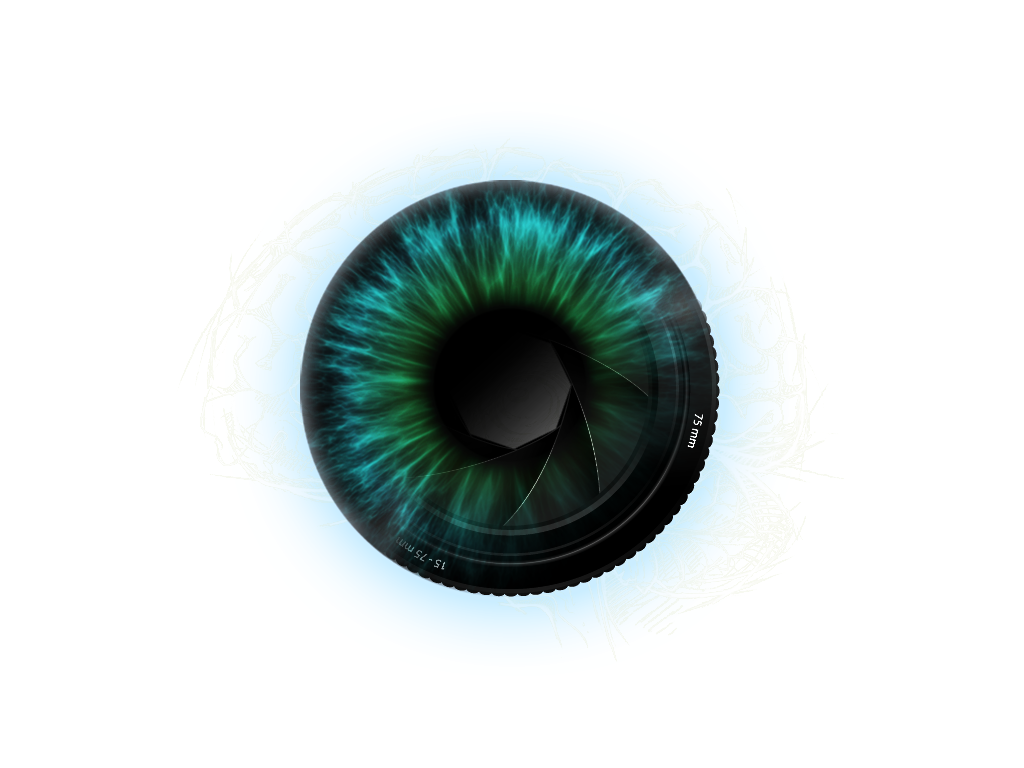
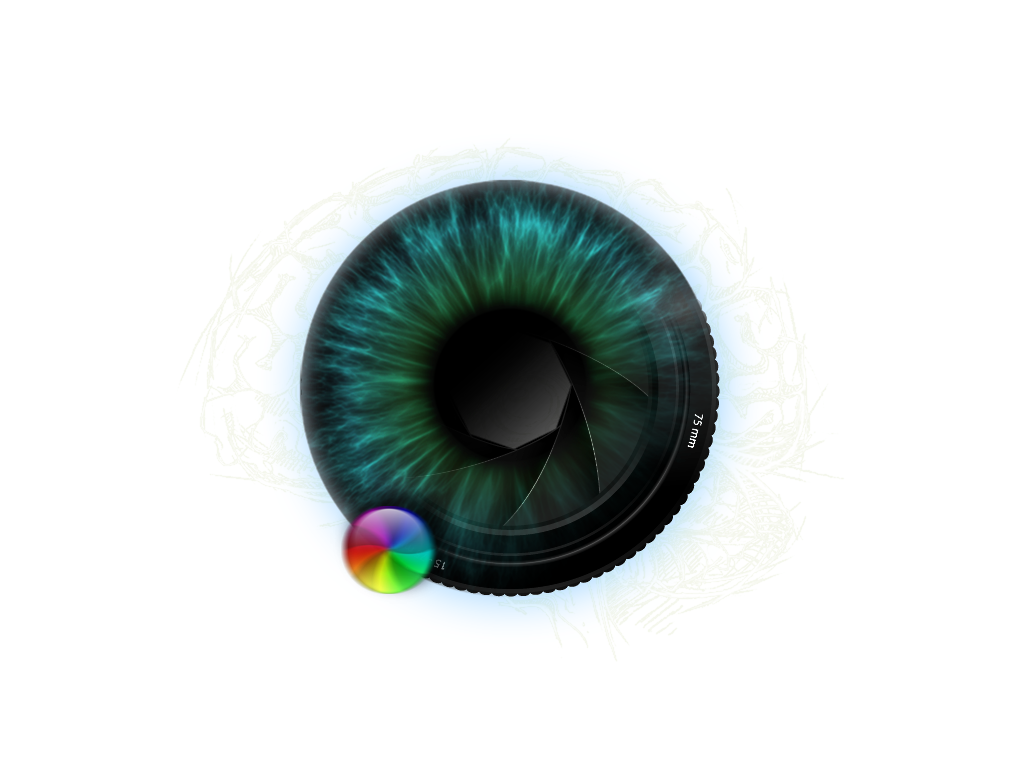
novo olho da home + alteração no movimento

Changed region(s): [[0.3125, 0.625, 0.4375, 0.7812]]

diff --git a/js/main.js b/js/main.js
@@ -6,6 +6,8 @@ var isMoving = false ;
 var usingKey = false ;
 var posAtual = 0 ;
 var currentSeta = null ;
+var tagsLeft = 0 ;
+var ease = 'easeInOutExpo' ;
 
 var Site = {
     Init: function() {
@@ -26,7 +28,7 @@ var Site = {
 		$('.menu_container').onePageNav({
 			changeHash: true,
 			currentClass: 'current_nav',
-			easing: 'easeInOutExpo',
+			easing: ease,
 			begin: function(){
 				$('.imagem_container').animate({left:0}, 500, 'swing');
 			},
@@ -146,6 +148,7 @@ var Site = {
 		function DoResize(e){
 			vw = $(window).width();
 			vh = $(window).height();
+			tagsLeft = ( vw / 2 + 100 ) ;
 			
 			$('.primeira div').css({
 				left:( (vw / 2) - (534 / 2) ) + 'px',
@@ -160,7 +163,7 @@ var Site = {
 			});
 			
 			$('.tags').css({
-				left: ( vw / 2 + 100 ) + 'px',
+				left: tagsLeft + 'px',
 				top:  ( vh / 2 - 25 ) + 'px'
 			});
 			
@@ -215,12 +218,12 @@ var Nav = {
 			var corPelaDiv = $(current_nav).attr('logo') ;
 			if( corPelaDiv != undefined ) corLogo = corPelaDiv ;
 			$('.logo').removeClass('branco').removeClass('preto').addClass( corLogo.toLowerCase() );
-			
+			/*
 			$('.logo').stop().fadeIn();
 			if( oldNav != '' ){
 				$( oldNav + ' .tags').stop().delay(1500).fadeIn();
 			}
-			
+			*/
 			Nav.ColorMenu();
 			Nav.UpdateShare();
 		}
@@ -239,19 +242,22 @@ var Nav = {
 		var hashStr = current_nav ;
 		if( imgId != undefined ) hashStr += '/' + imgId ;
 		
-		$(current_nav + ' .imagem_container').animate({left:pos}, 800, 'easeInOutExpo', function(){
+		$(current_nav + ' .imagem_container, .logo').animate({left:pos}, 800, ease, function(){
 			isMoving = false ;
 			window.location.hash = hashStr ;
-			
 			Nav.UpdateShare();
 		});
 		
+		$(current_nav + ' .tags').animate({left:pos + tagsLeft}, 800, ease);
+		
 		//$(current_nav + ' .imagem_container .imagem div').fadeIn();
+		/*
 		if( posAtual > 0 ){
 			$(' .tags, .logo').stop().fadeOut();
 		} else {
 			$(' .tags, .logo').stop().fadeIn();
 		}
+		*/
 	},
 	
 	UpdateShare: function(){
